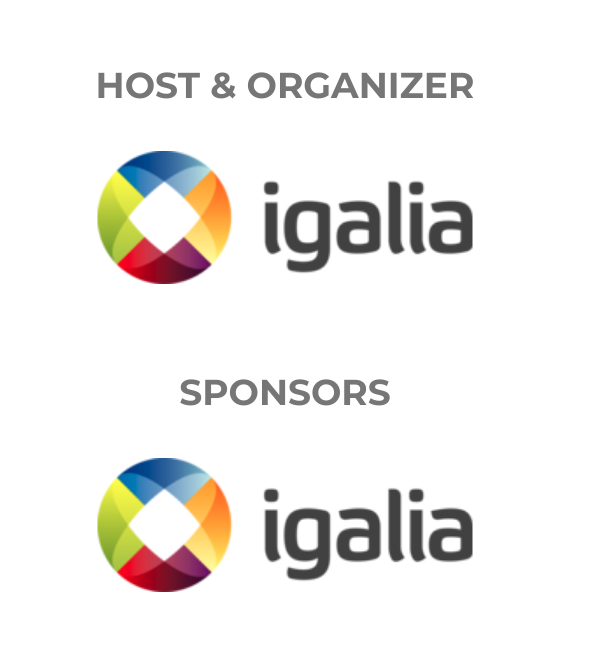
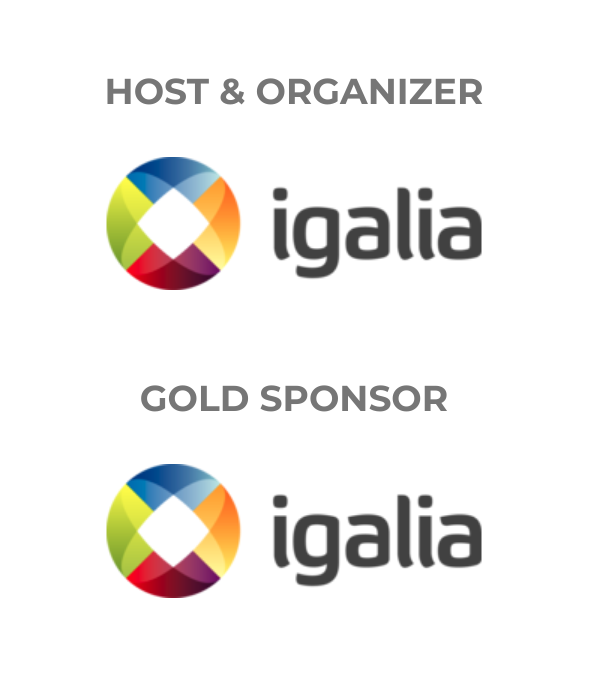
Add Gold sponsor

diff --git a/2019/index.html b/2019/index.html
@@ -360,7 +360,7 @@
             </div>
             <div class="row">
                 <div class="col-lg-12 text-center">
-                    <h3 class="text-muted">Sponsors</h3>
+                    <h3 class="text-muted">Gold Sponsor</h3>
                 </div>
             </div>
             <div class="row text-center sponsors">
